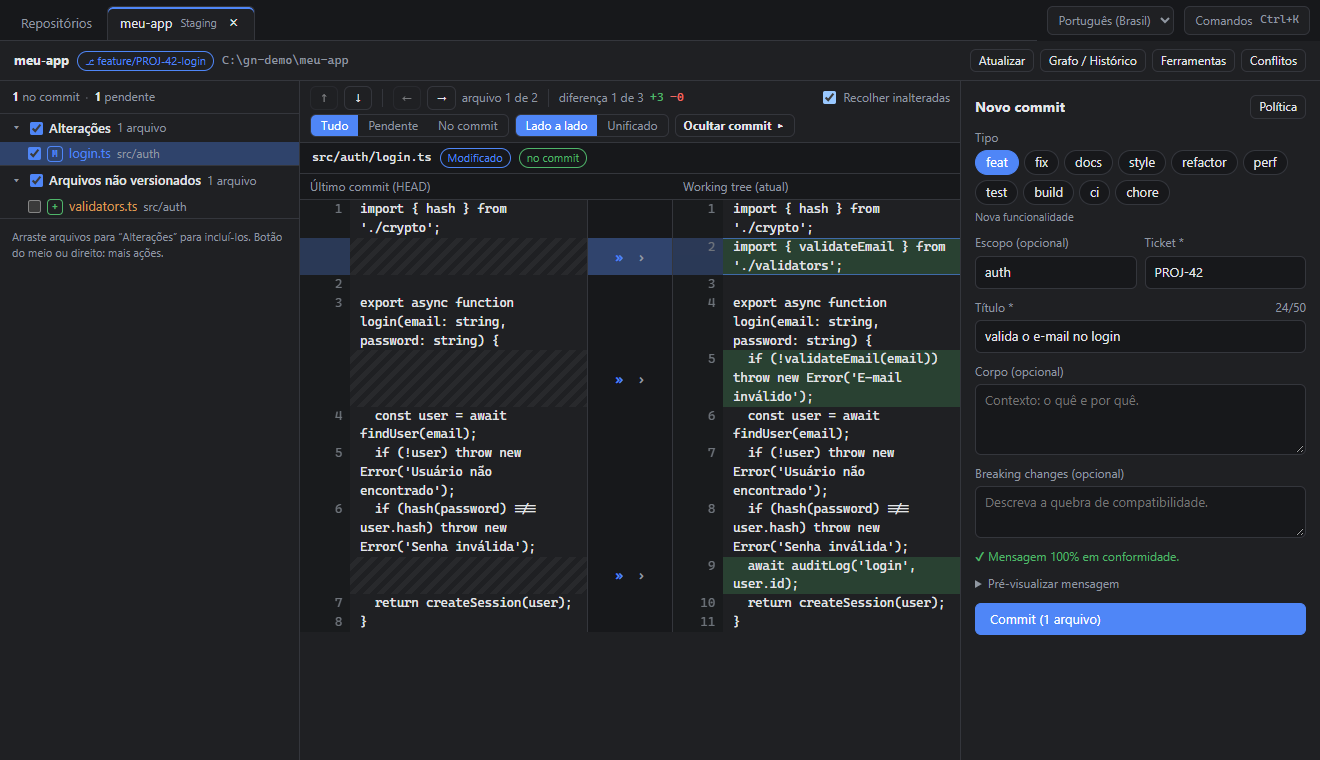
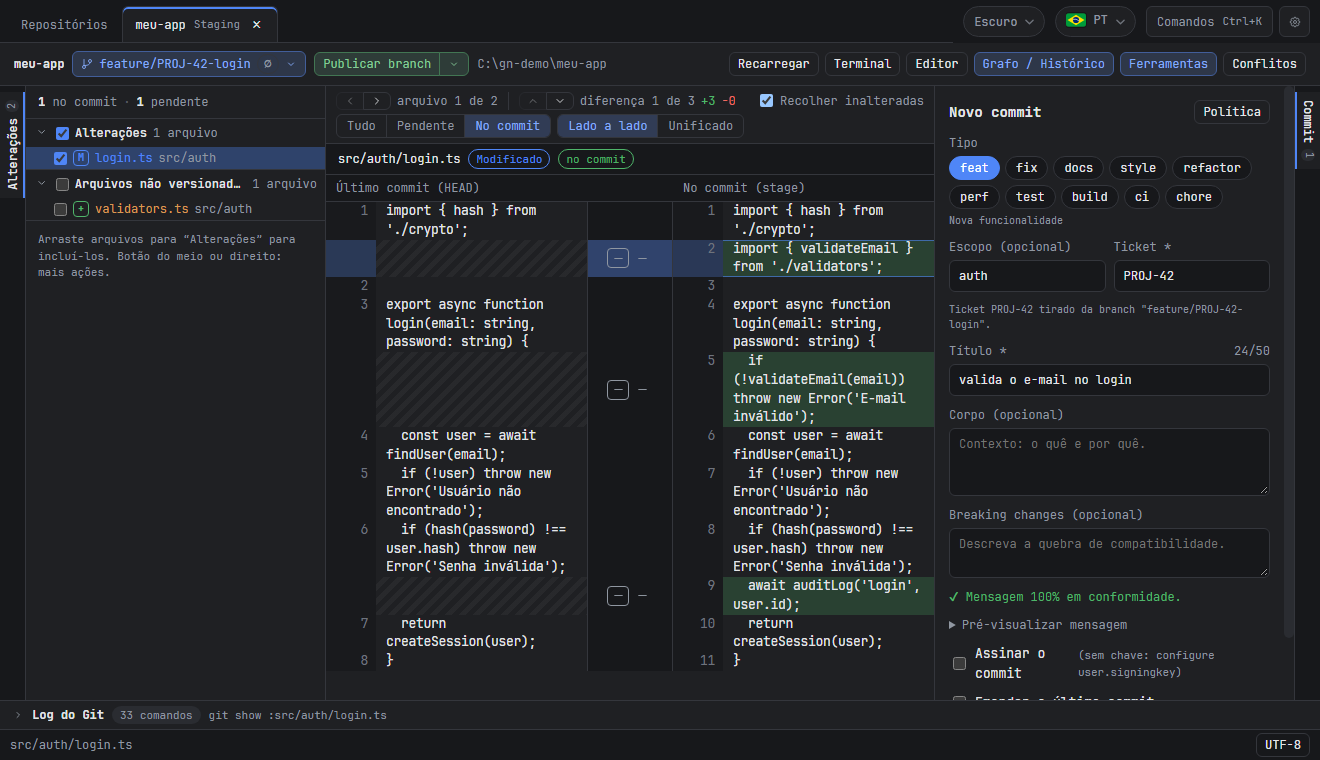
docs: regrava as imagens e GIFs de docs/media com a interface nova e registra o método
As mídias mostravam a interface e a fonte antigas. Agora saem do app real por tests/media.mjs (uma cena por GIF, repositórios de demonstração em C:\gn-demo, janela 1320x760, sem caminho pessoal) e são montadas por montar-gifs.py. O commit-linter.png (página do projeto e manifesto do Flatpak) é o quadro da mensagem aprovada. docs/DESENVOLVIMENTO.md descreve como regravar.

Closes #171

diff --git a/apps/studio/scripts/ui-tests/montar-gifs.py b/apps/studio/scripts/ui-tests/montar-gifs.py
@@ -1,0 +1,45 @@
+#!/usr/bin/env python3
+"""Monta os GIFs de docs/media a partir dos quadros que `tests/media.mjs` grava (<cena>-<n>.png).
+
+    python apps/studio/scripts/ui-tests/montar-gifs.py <pasta-dos-quadros> <pasta-de-saida>
+
+Cada GIF é uma apresentação de poucos quadros (3 a 5), de 1,5 a 3 s cada, em loop. O `commit-linter.png` (usado na página do projeto e no
+manifesto do Flatpak, scripts/lib/flatpak.mjs) é o quadro da mensagem aprovada. Precisa de Pillow (`pip install pillow`).
+"""
+import sys
+from pathlib import Path
+
+from PIL import Image
+
+# cena -> duração (ms) de cada quadro
+CENAS = {
+    'commit-linter': [2200, 2200, 3000, 3000, 3000],
+    'conflito': [2600, 3200, 2600, 3200],
+    'desfazer': [3000, 3000, 3000],
+    'paleta': [2200, 2000, 2000, 3000],
+    'rebase': [3000, 3000, 2600, 3000],
+    'stage-por-linha': [3000, 2200, 3000, 3000],
+}
+PNG = ('commit-linter', 4)  # (cena, quadro) que vira commit-linter.png
+
+
+def main() -> int:
+    if len(sys.argv) != 3:
+        print(__doc__)
+        return 2
+    src, dst = Path(sys.argv[1]), Path(sys.argv[2])
+    dst.mkdir(parents=True, exist_ok=True)
+    for cena, tempos in CENAS.items():
+        quadros = [Image.open(src / f'{cena}-{i}.png').convert('RGB') for i in range(1, len(tempos) + 1)]
+        # paleta adaptativa por quadro: o texto fica nítido e o arquivo, pequeno
+        pal = [q.quantize(colors=128, method=Image.Quantize.MEDIANCUT, dither=Image.Dither.NONE) for q in quadros]
+        pal[0].save(dst / f'{cena}.gif', save_all=True, append_images=pal[1:], duration=tempos, loop=0, optimize=True, disposal=1)
+        print(f'{cena}.gif: {len(quadros)} quadros, {(dst / f"{cena}.gif").stat().st_size // 1024} KB')
+    cena, n = PNG
+    Image.open(src / f'{cena}-{n}.png').convert('RGB').save(dst / 'commit-linter.png', optimize=True)
+    print('commit-linter.png ok')
+    return 0
+
+
+if __name__ == '__main__':
+    raise SystemExit(main())

diff --git a/docs/DESENVOLVIMENTO.md b/docs/DESENVOLVIMENTO.md
@@ -37,7 +37,19 @@ Os dados (lista de repositórios, preferências) ficam em `GitNexusData/` ao lad
 
 ## Imagens e GIFs da documentação
 
-As mídias de `docs/media` (e a vitrine do README) **não têm script de geração**: são gravadas com o app real. Método para regravar: o harness de interface (`apps/studio/scripts/ui-harness`) serve o renderer compilado e o Edge/Chrome headless é dirigido por CDP (`apps/studio/scripts/ui-tests/lib.mjs`: `connect`, `mkRepo`, `t.shot`), num repositório de demonstração (`gn-demo`, criado por `mkRepo`), com a janela em **1320x760** e **sem caminhos pessoais nem dados de clientes**. Cada quadro é uma captura (`Page.captureScreenshot`); os GIFs são apresentações de poucos quadros (3 a 5, de 1,5 a 3 s cada), montadas com qualquer ferramenta (por exemplo Pillow, em Python). O `commit-linter.png` também é a imagem do manifesto do Flatpak (`scripts/lib/flatpak.mjs`): se ele mudar de nome, o manifesto muda junto.
+As mídias de `docs/media` (e a vitrine do README) são gravadas com o **app real** pelo harness de interface, sem caminho pessoal nem dado de cliente:
+
+```bash
+cd apps/studio && npx vite build
+# grava os quadros (<cena>-<n>.png, janela 1320x760, pt-BR, tema escuro): todas as cenas, ou uma com GN_MEDIA_ONLY=paleta
+GN_MEDIA=1 GN_MEDIA_OUT=<pasta> node scripts/ui-tests/run.mjs media
+# monta os GIFs e o commit-linter.png (precisa de Pillow: pip install pillow)
+python scripts/ui-tests/montar-gifs.py <pasta> ../../docs/media
+```
+
+- `scripts/ui-tests/tests/media.mjs` tem uma **cena por GIF** (`paleta`, `commit-linter`, `desfazer`, `rebase`, `stage-por-linha`, `conflito`). Cada uma monta um repositório de demonstração em `C:\gn-demo` (ou `/tmp/gn-demo`), dirige a tela por CDP e grava um quadro por passo. Sem `GN_MEDIA=1` o arquivo sai na hora com sucesso: o `ui-test` normal não grava nada.
+- `scripts/ui-tests/montar-gifs.py` junta os quadros (apresentações de 3 a 5 quadros, de 1,5 a 3 s cada, em loop) e salva o `commit-linter.png`, que também é a imagem do manifesto do Flatpak (`scripts/lib/flatpak.mjs`) e da página do projeto: se ele mudar de nome, esses dois mudam junto.
+- Para mudar um GIF, ajuste a cena correspondente (o que cada quadro mostra) e a tabela `CENAS` do script (duração de cada quadro). Regrave quando a interface mudar de forma visível.
 
 ## Notas sobre versões
 
